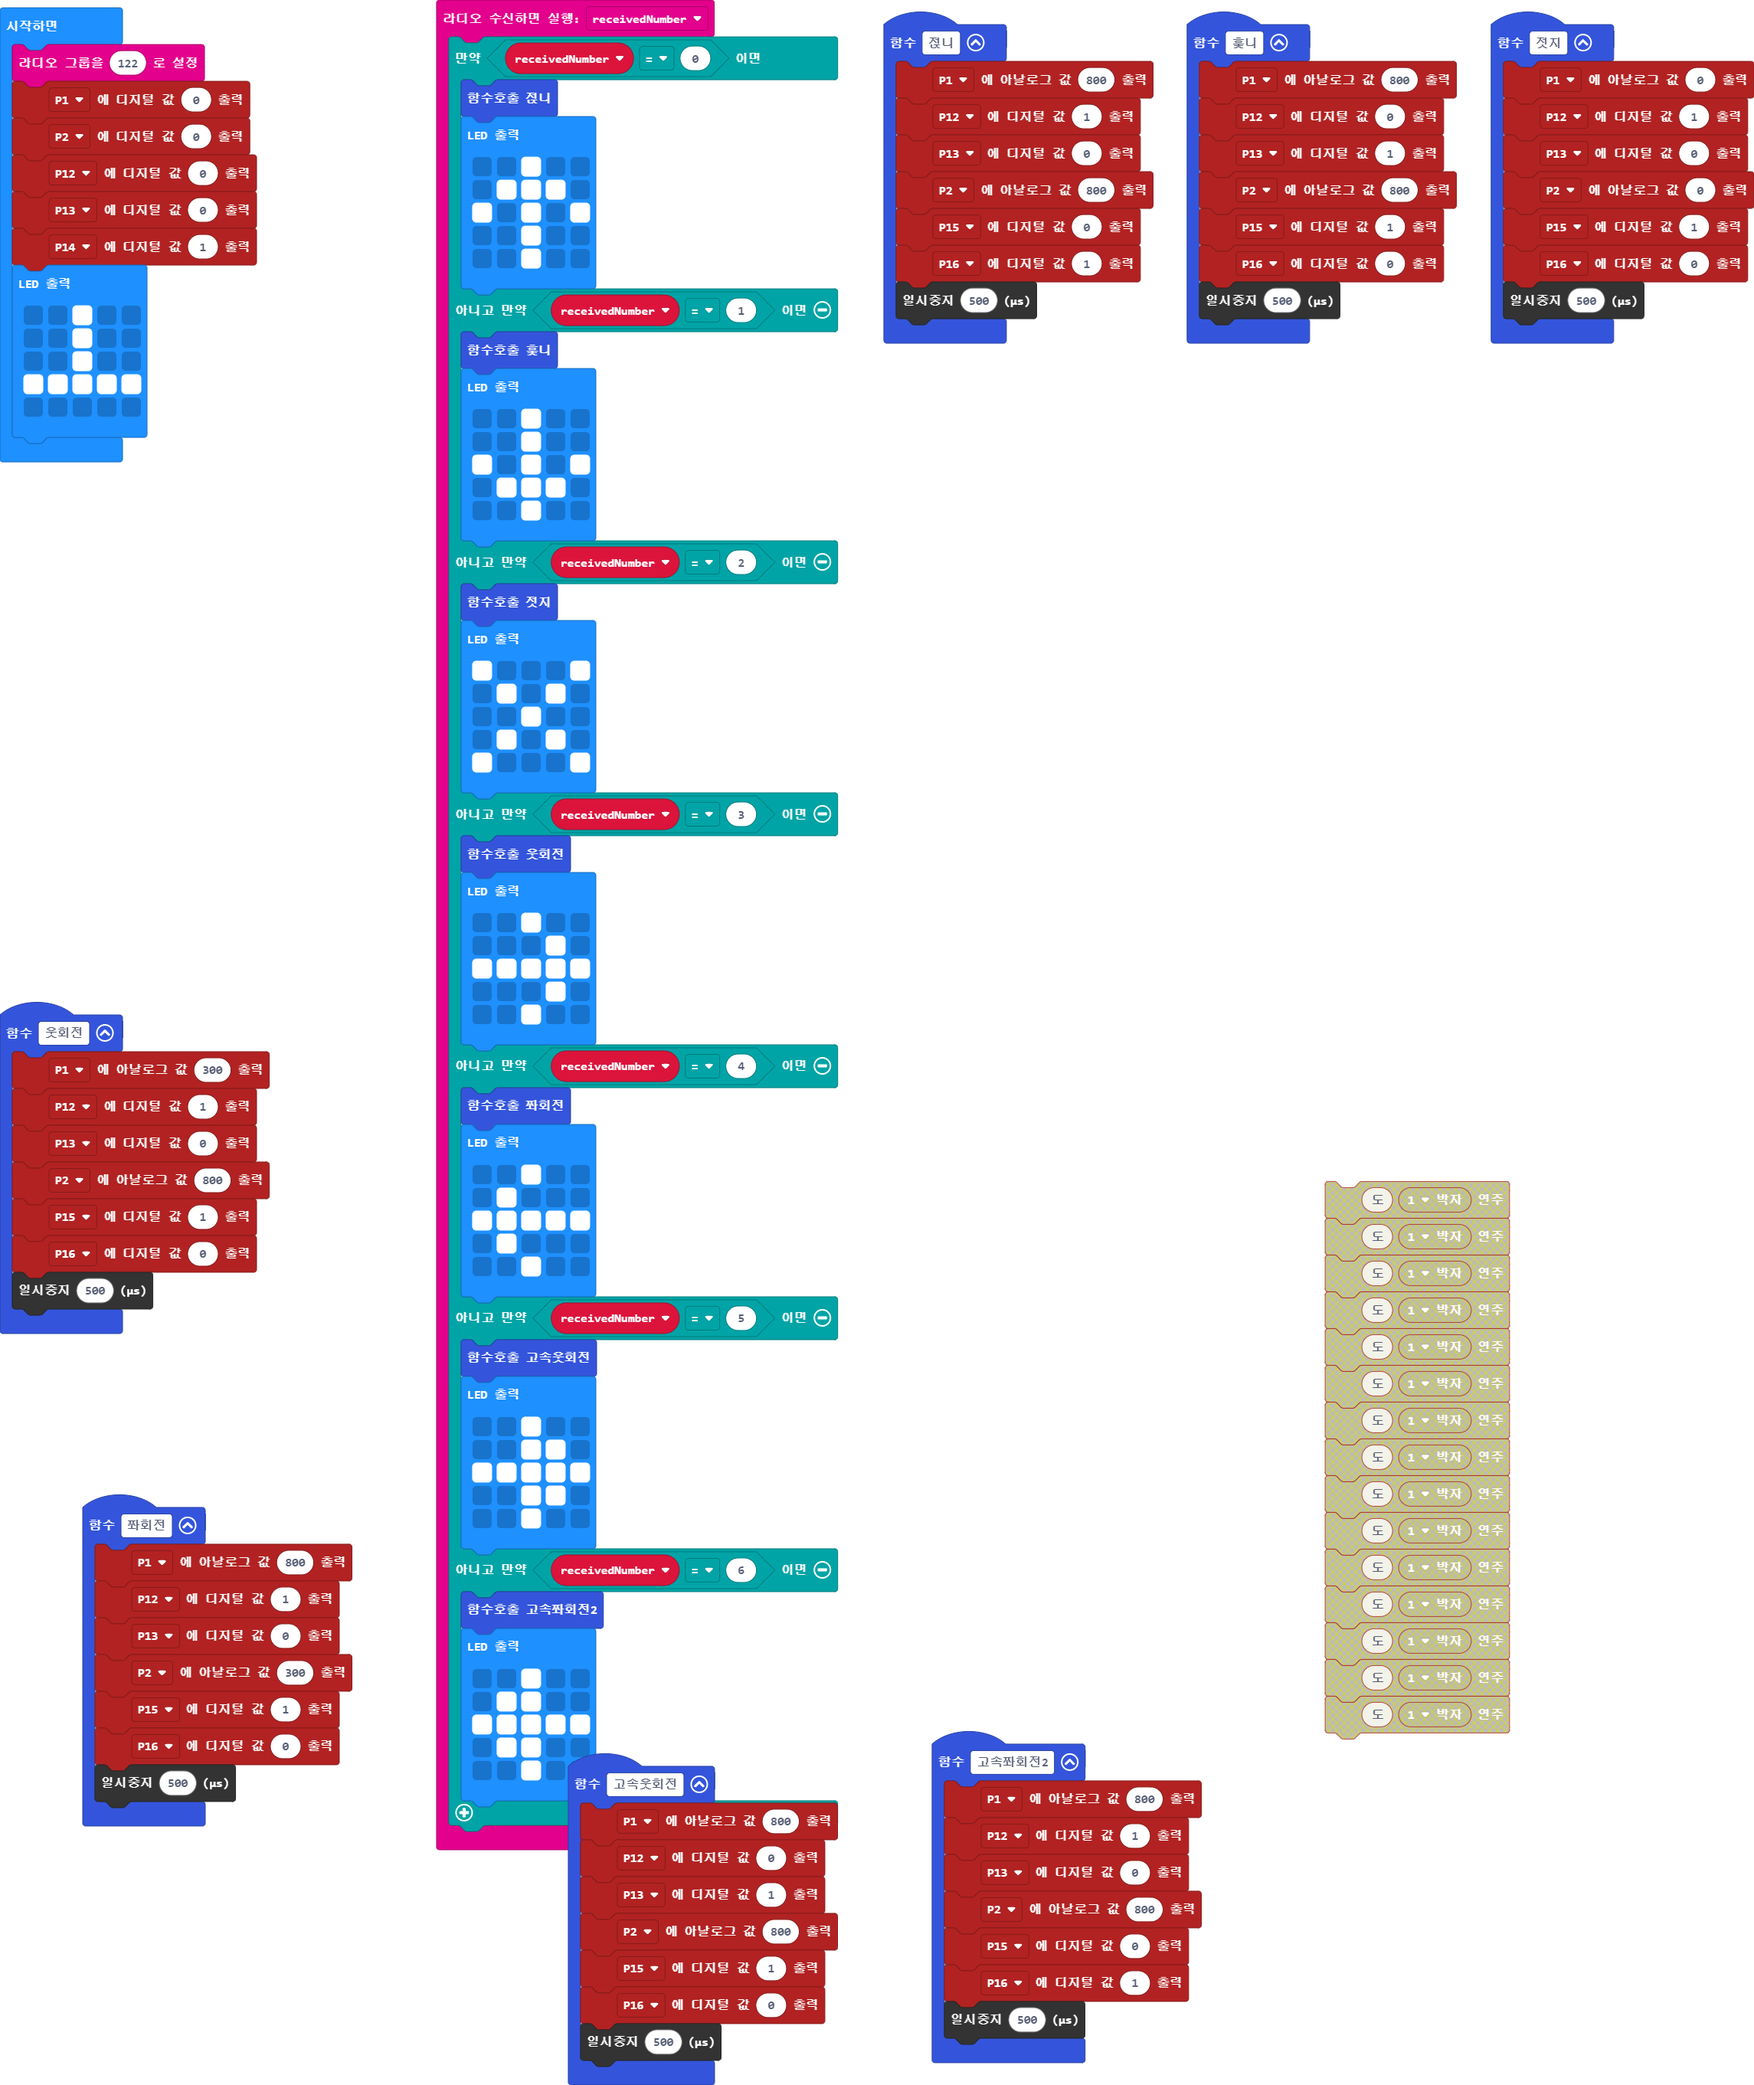
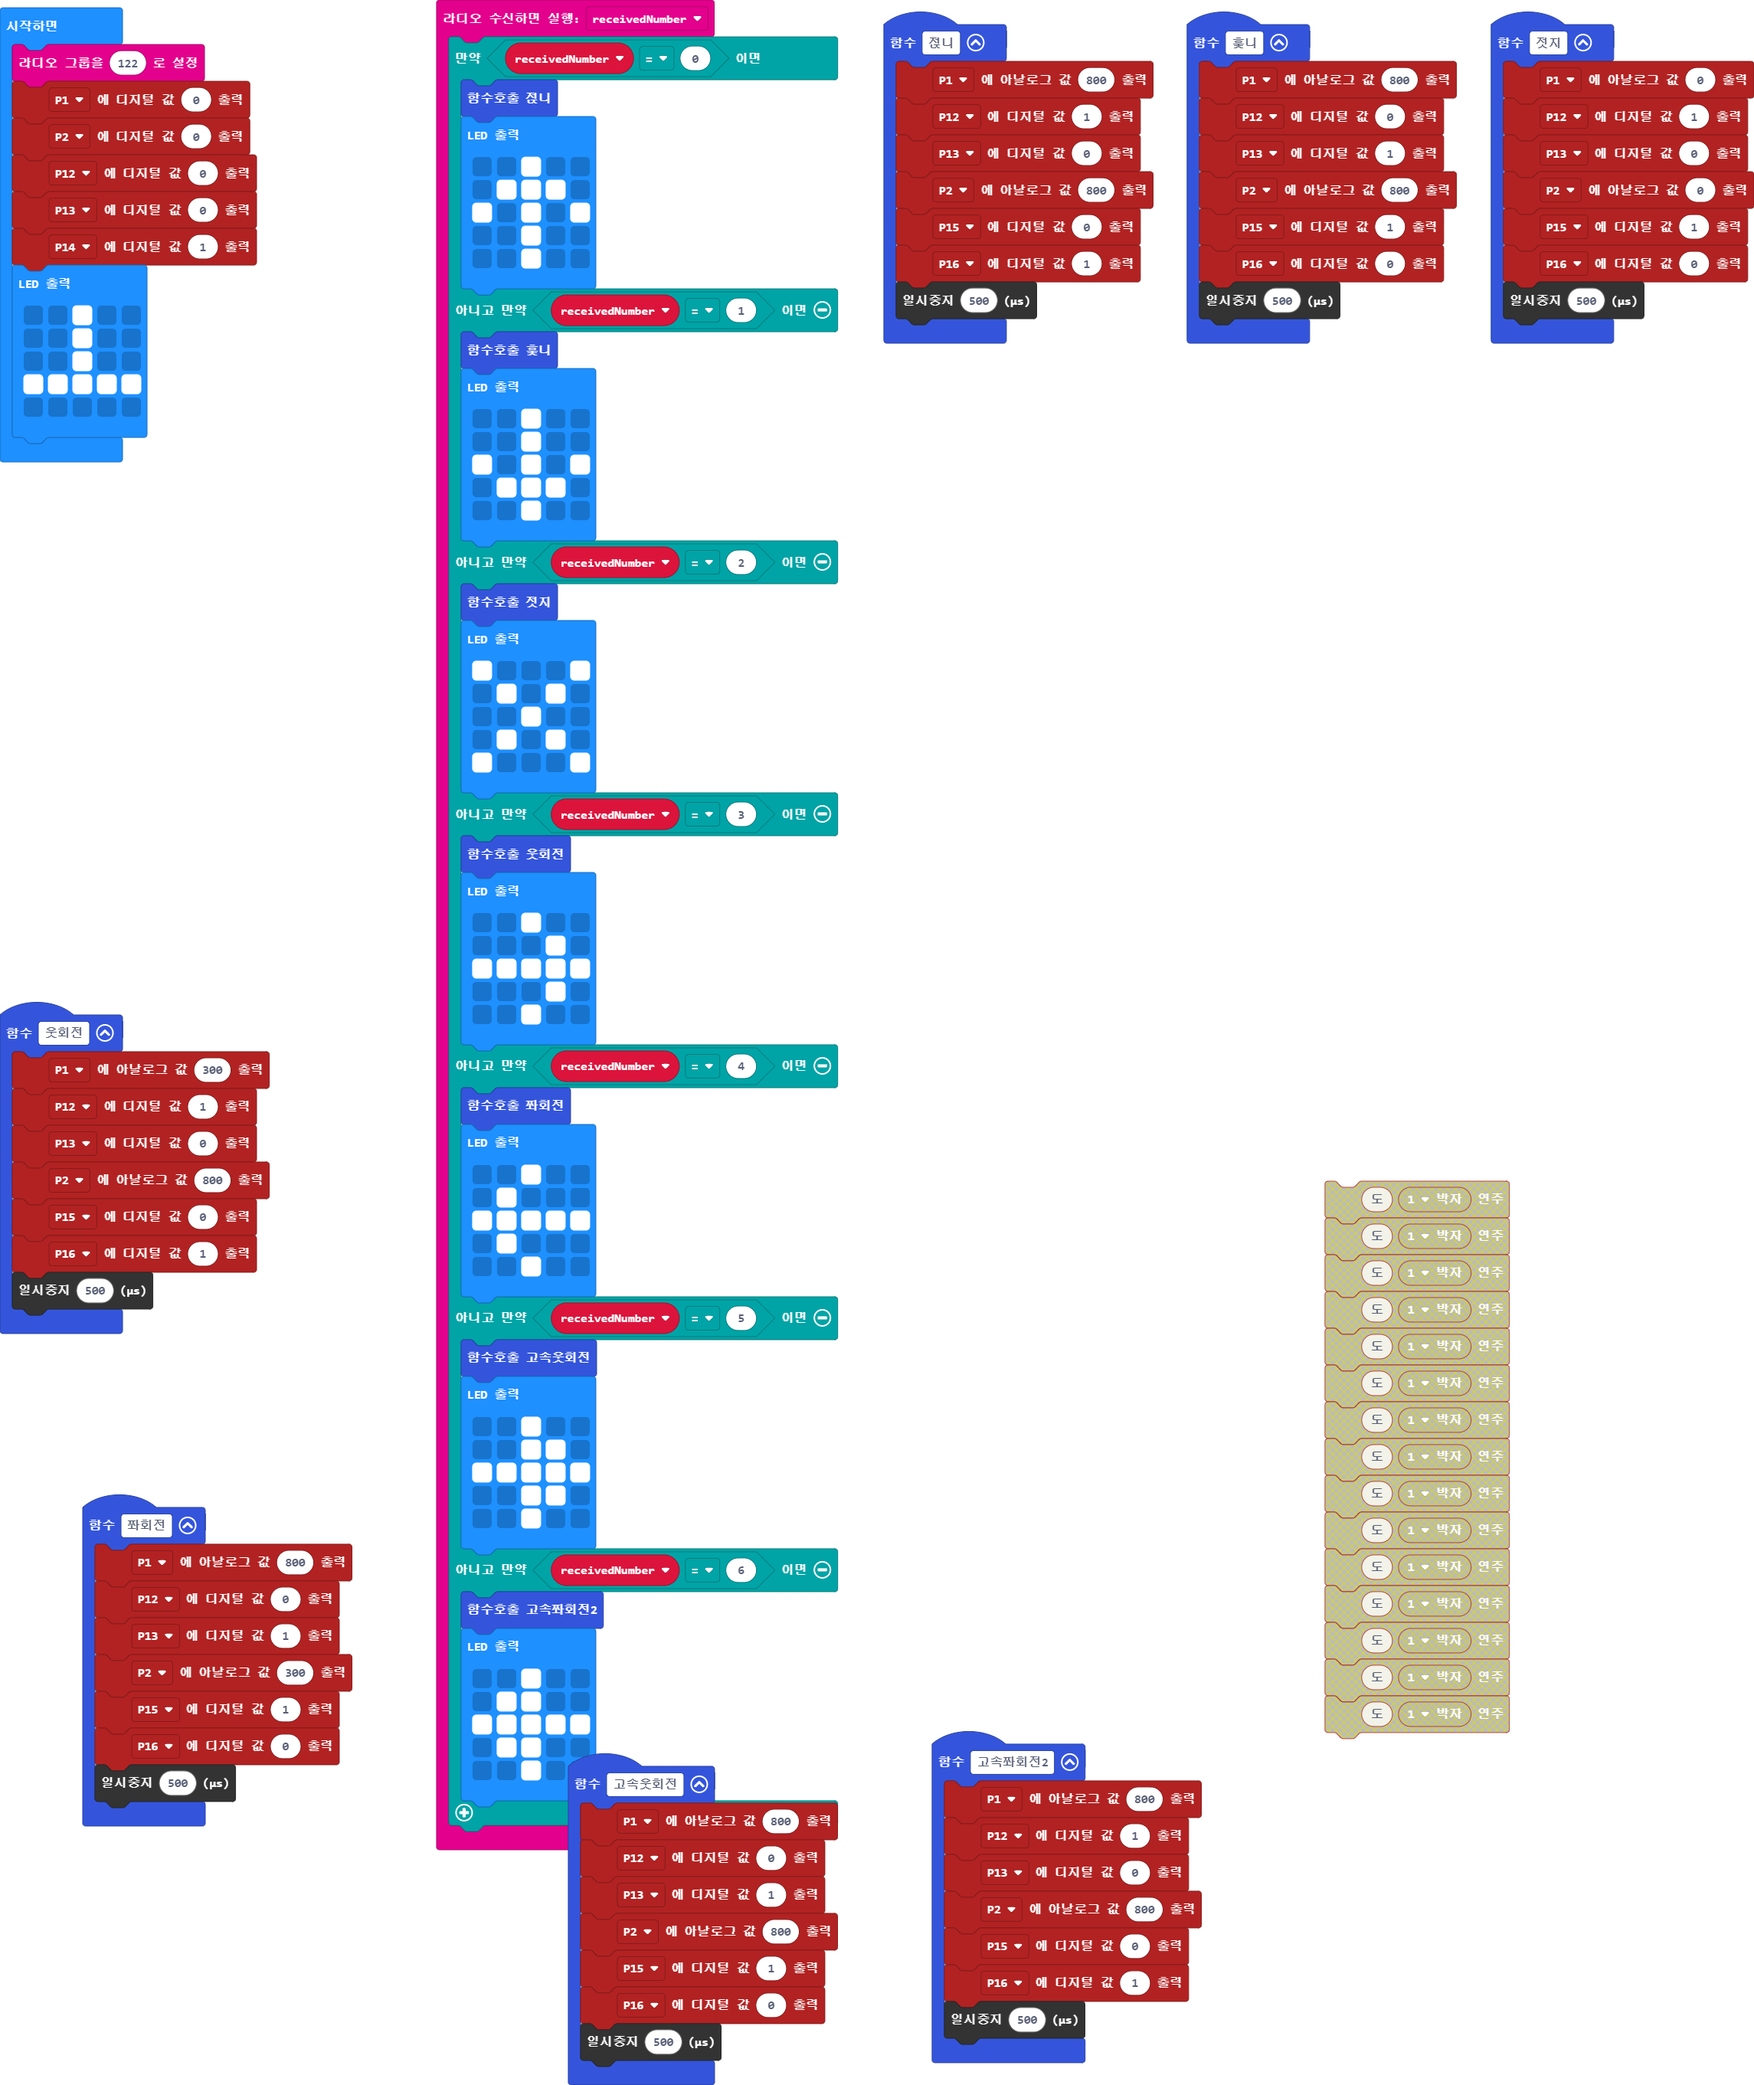
main.blocks, main.ts 업데이트하기

Changed region(s): [[0.7441, 0.5621, 0.8681, 0.8431]]

diff --git a/main.ts b/main.ts
@@ -1,7 +1,7 @@
 function 쫘회전 () {
     pins.analogWritePin(AnalogPin.P1, 800)
-    pins.digitalWritePin(DigitalPin.P12, 1)
-    pins.digitalWritePin(DigitalPin.P13, 0)
+    pins.digitalWritePin(DigitalPin.P12, 0)
+    pins.digitalWritePin(DigitalPin.P13, 1)
     pins.analogWritePin(AnalogPin.P2, 300)
     pins.digitalWritePin(DigitalPin.P15, 1)
     pins.digitalWritePin(DigitalPin.P16, 0)
@@ -96,8 +96,8 @@ function 웃회전 () {
     pins.digitalWritePin(DigitalPin.P12, 1)
     pins.digitalWritePin(DigitalPin.P13, 0)
     pins.analogWritePin(AnalogPin.P2, 800)
-    pins.digitalWritePin(DigitalPin.P15, 1)
-    pins.digitalWritePin(DigitalPin.P16, 0)
+    pins.digitalWritePin(DigitalPin.P15, 0)
+    pins.digitalWritePin(DigitalPin.P16, 1)
     control.waitMicros(500)
 }
 function 젅니 () {
